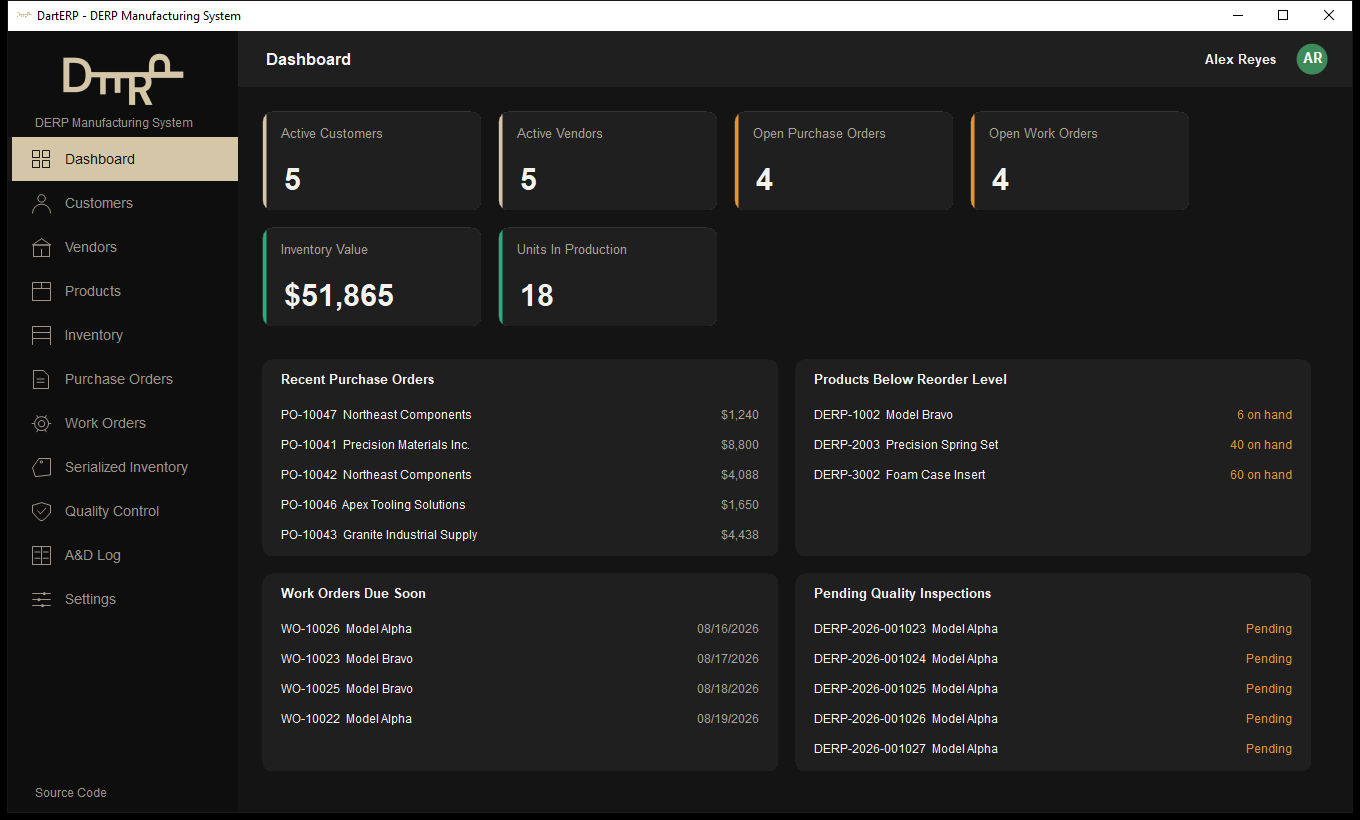
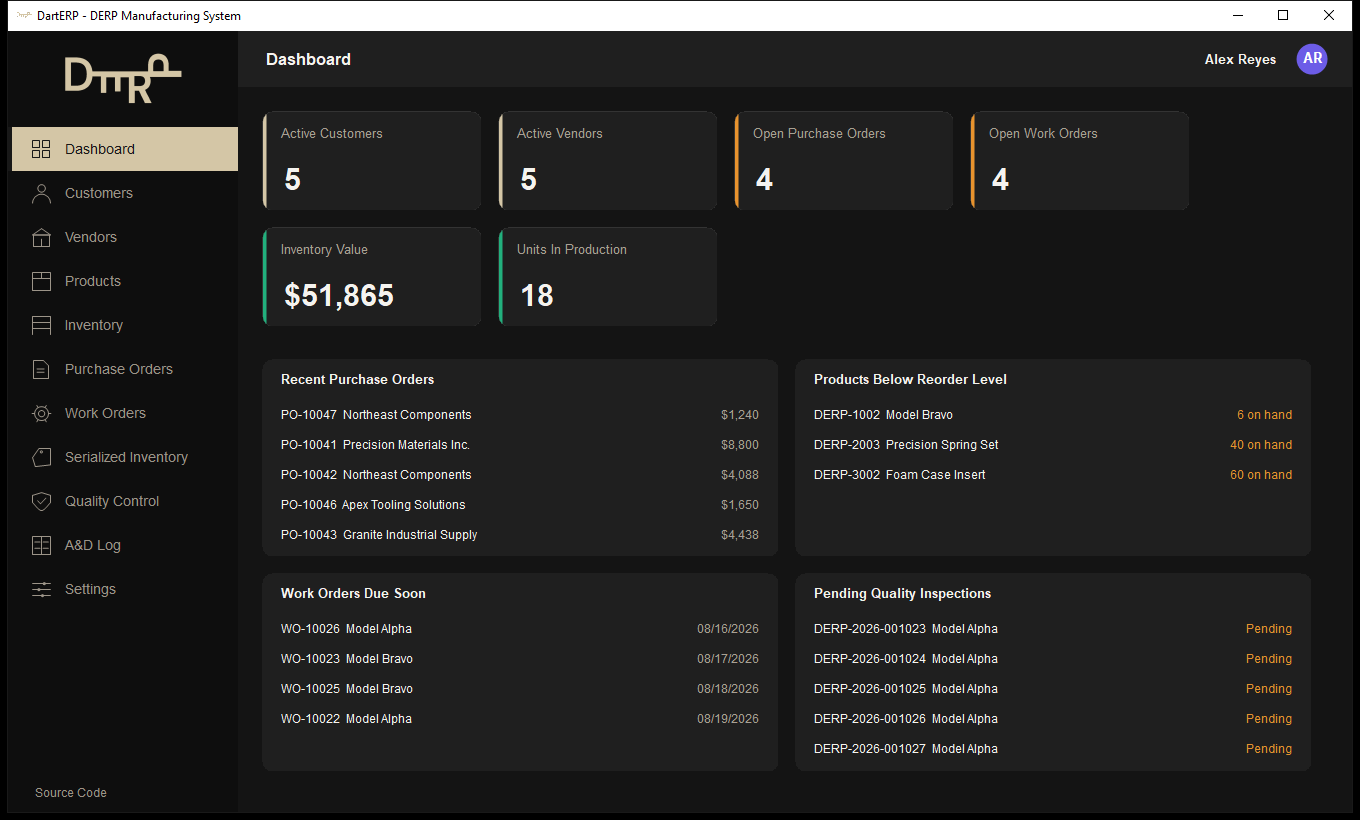
Drop sidebar subtitle, extend Inter to the login video overlay text
Removed the "DERP Manufacturing System" caption under the sidebar logo —
the logo already carries the brand, the extra line was redundant. Widened
the brand panel's breathing room now that it's just the logo.

The login screen's video overlay text ("DERP MANUFACTURING SYSTEM") is
rendered by WebView2, a real Chromium engine with its own font stack
entirely separate from the GDI+ PrivateFontCollection the rest of the app
uses for Inter — so it was quietly still on Segoe UI. Added @font-face
rules loading the same two bundled TTFs the web way, so that text matches
the font everywhere else in the app.

diff --git a/src/DartERP.WinForms/Assets/login.html b/src/DartERP.WinForms/Assets/login.html
@@ -3,10 +3,18 @@
 <head>
 <meta charset="utf-8" />
 <style>
+  /* This page renders inside WebView2 (a real Chromium engine), which has
+     its own font stack entirely separate from the GDI+ PrivateFontCollection
+     the rest of the WinForms app uses (Styling/AppFonts.cs) — loading Inter
+     there doesn't make it available here too. Same two bundled TTFs, loaded
+     the web way instead, so this one bit of on-screen text matches the font
+     everywhere else in the app. */
+  @font-face { font-family: "Inter"; src: url("Fonts/Inter-Regular.ttf") format("truetype"); font-weight: 400; }
+  @font-face { font-family: "Inter"; src: url("Fonts/Inter-Bold.ttf") format("truetype"); font-weight: 700; }
   html, body { margin: 0; padding: 0; width: 100%; height: 100%; overflow: hidden; background: #0a0a0a; }
   video { width: 100%; height: 100%; object-fit: cover; display: block; }
   .overlay { position: fixed; inset: 0; background: linear-gradient(to top, rgba(0,0,0,0.7), rgba(0,0,0,0) 45%); }
-  .wordmark { position: fixed; left: 28px; bottom: 22px; color: #fff; font-family: "Segoe UI", sans-serif; font-size: 13px; letter-spacing: 0.5px; opacity: 0.9; }
+  .wordmark { position: fixed; left: 28px; bottom: 22px; color: #fff; font-family: "Inter", sans-serif; font-weight: 700; font-size: 13px; letter-spacing: 0.5px; opacity: 0.9; }
 </style>
 </head>
 <body>

diff --git a/src/DartERP.WinForms/Forms/MainForm.cs b/src/DartERP.WinForms/Forms/MainForm.cs
@@ -243,7 +243,7 @@ public class MainForm : Form
         var brandPanel = new Panel
         {
             Dock = DockStyle.Top,
-            Height = 106,
+            Height = 96,
             BackColor = Theme.SidebarBackground,
         };
 
@@ -255,22 +255,9 @@ public class MainForm : Form
             SizeMode = PictureBoxSizeMode.Zoom,
             Dock = DockStyle.Fill,
         };
-        var logoHost = new Panel { Dock = DockStyle.Top, Height = 78, Padding = new Padding(24, 20, 24, 0) };
+        var logoHost = new Panel { Dock = DockStyle.Fill, Padding = new Padding(24, 20, 24, 20) };
         logoHost.Controls.Add(logoBox);
 
-        var subLabel = new Label
-        {
-            Text = "DERP Manufacturing System",
-            Font = Theme.FontSmall,
-            ForeColor = Theme.SidebarText,
-            AutoSize = false,
-            Dock = DockStyle.Top,
-            Height = 22,
-            Padding = new Padding(24, 4, 0, 0),
-            TextAlign = ContentAlignment.MiddleLeft,
-        };
-
-        brandPanel.Controls.Add(subLabel);
         brandPanel.Controls.Add(logoHost);
 
         return brandPanel;
